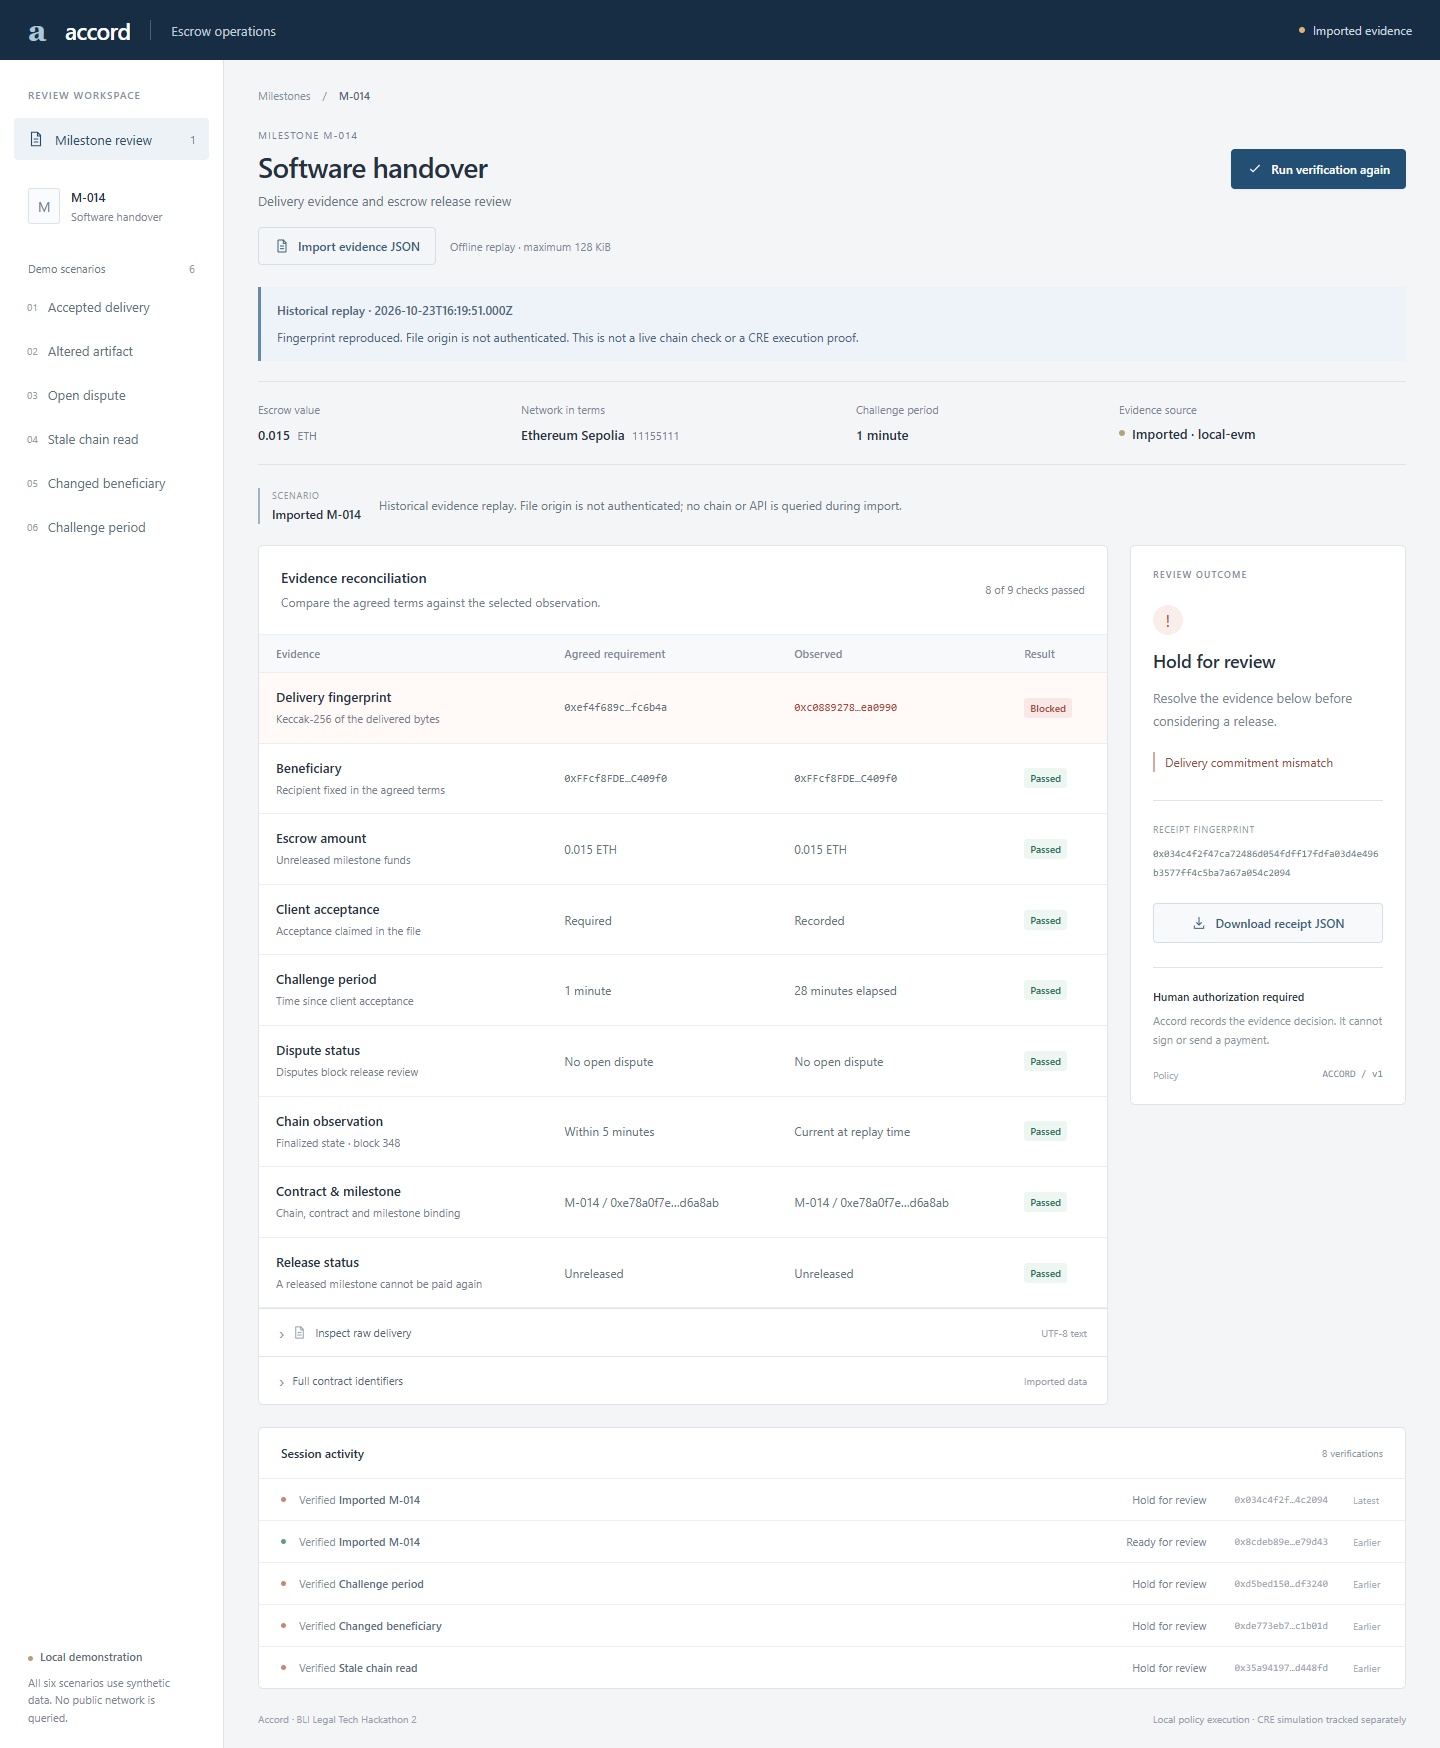
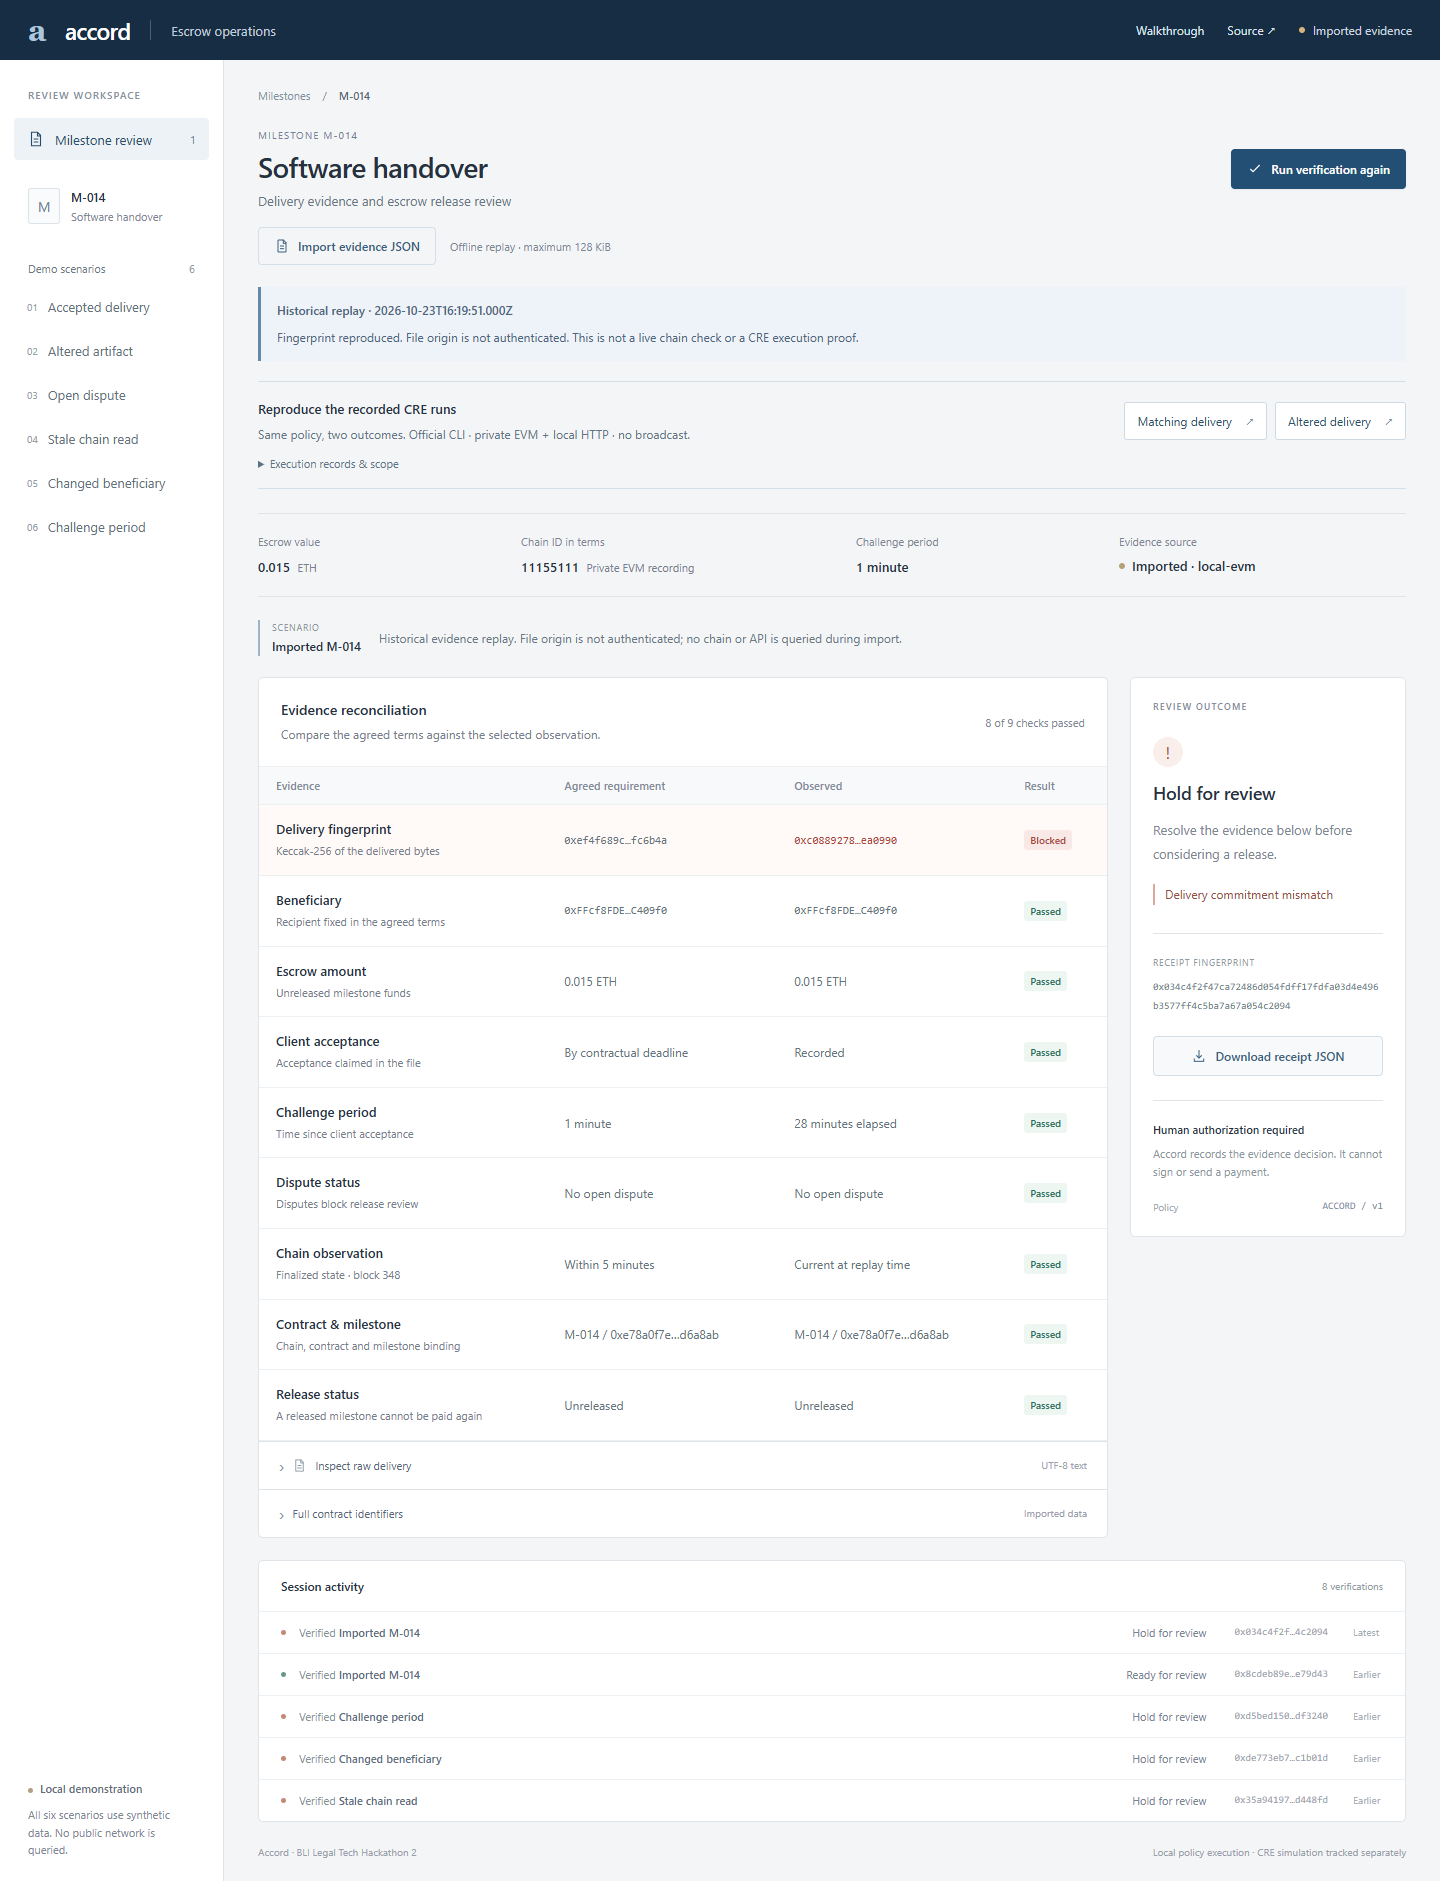
docs: record verified public quality pass and provenance [skip ci]

diff --git a/submission/PROVENANCE.md b/submission/PROVENANCE.md
@@ -1,9 +1,9 @@
 # Provenance
 
-First implementation: 2026-10-18, Asia/Kuala_Lumpur. Built specifically for the BLI Legal Tech Hackathon 2 Chainlink CRE bounty in an isolated project directory. AI-assisted design, implementation, documentation and testing by Codex; human review pending.
+First implementation: 2026-10-18, Asia/Kuala_Lumpur. Built specifically for the BLI Legal Tech Hackathon 2 Chainlink CRE bounty in an isolated project directory. AI-assisted design, implementation, documentation and testing by Codex. The owner approved public release, MIT licensing and hosting, supplied platform contacts and confirmed Build creation terms. These approvals do not establish a line-by-line human code or security review.
 
 Original project code: evidence policy, UI, Solidity escrow, workflow composition and tests. Dependencies include official Chainlink CRE SDK, viem, Vite, TypeScript, Ganache, solc and Playwright under their respective upstream licenses. CRE SDK usage follows official Chainlink TypeScript documentation, captured in `evidence/cre-*.md`. This documentation capture is for review provenance; upstream rights remain with their owners.
 
-No existing project checkout was copied into this project. No claim of pre-event eligibility is made: the event's precise development-window, AI and prior-code rules remain unconfirmed. Public release license must be approved before publishing.
+No existing project checkout was copied into the application. The video reuses the PageCam component from the installed video-shotcraft skill; its source and origin are recorded in video/README.md. Product captures are genuine browser screenshots; narration uses local Windows System.Speech and no generated imagery. No claim of pre-event eligibility is made: the event's precise development-window, AI and prior-code rules remain unconfirmed. Original project code was released under the owner-approved MIT license; upstream dependencies retain their respective licenses, including the official CRE SDK's BUSL-1.1 license.
 
 The machine exhausted C: disk space while installing dependencies. Only this project's partial dependency/download directories were moved to a project-specific D: runtime location. The source remains in its dedicated C: project directory. No global PATH or package-manager configuration was changed.

diff --git a/submission/PUBLICATION.md b/submission/PUBLICATION.md
@@ -24,3 +24,7 @@ This publishes the static operations desk, source and curated execution evidence
 The earlier unrecorded-video note is superseded. The 2m44s English walkthrough is published at https://kaivenn52.github.io/accord-escrow-evidence/walkthrough.html with the direct reviewed MP4, poster and English WebVTT captions. Source commit `36b631f` was deployed successfully by [run 40536080091](https://github.com/KaiVenn52/accord-escrow-evidence/actions/runs/40536080091). `evidence/video-qa.json` confirms live HTTP 200, matching reviewed media hash, playback, seeking, nine caption cues and phone layout without overflow or console errors. The live video bytes match the independent review in video/REVIEW.md. No new CRE execution or chain deployment follows from publishing this video.
 
 On Oct 28 the owner authorized contact disclosure and separately confirmed the Build creation terms. Public [Build 50435](https://dorahacks.io/build/50435) was successfully created and its full description and three links verified. The BLI event submission dialog has Accord selected and Looking for teammates set to No. The activity agreement remains unchecked and Submit for Review remains unclicked; see FINAL_REVIEW.md. These current facts supersede the earlier no-terms/no-Build notes.
+
+## Oct 28 review refinement
+
+Source commit 24f5f65 passed a fresh locked Linux install, all 31 source tests, evidence-copy integrity checks, production build and Pages deployment in [run 40639223992](https://github.com/KaiVenn52/accord-escrow-evidence/actions/runs/40639223992). The desk now has direct recorded-result replay, links to original CLI records, explicit private-chain labels and outcome-first narrow layouts. English captions now use 40 short cues; the reviewed MP4 hash is unchanged. The current public browser/video reports supersede older nine-cue and interface snapshots above.

diff --git a/video/README.md b/video/README.md
@@ -29,6 +29,7 @@ The renderer uses installed Microsoft Edge at `C:/Program Files (x86)/Microsoft/
 `src/workbench.ts` describes shots, editable titles/captions and narration on the same timeline. `npm run studio` opens the Remotion composition for local source editing. Generated bundles, intermediate MP4s and runtime caches are ignored. The reused PageCam source comes from the installed video-shotcraft skill's reusable component library; it is used in flat 2D mode. No Gallery variant or generated image is used.
 
 The prepared workspace also runs a project-scoped copy of ShotCraft Workbench at `http://localhost:5198/?import=project`; the installed skill itself was not modified. Windows path and junction handling were adapted in that scoped runtime. The nine shots and voice tracks import successfully. `parity.mjs` compared original and imported compositions at frames 90, 2150 and 4614: all had zero differing pixels. See `../evidence/video-workbench-parity.json`. This is sampled visual parity, not an exhaustive all-frame or audio comparison. The workbench's complete export action has not been run; use the reviewed published MP4 as the final submission artifact.
-# Caption readability update — Oct 28
+
+## Caption readability update — Oct 28
 
 The published WebVTT now has 40 short cues, at most two lines and 42 characters per line. `node video/captions.mjs` regenerates it from the fixed timeline without changing the reviewed MP4. All narration words are retained and cues do not overlap. Timing is interpolated by word count within each measured narration clip, starting at local frame 10; it is not forced word alignment. The original nine-paragraph caption QA is superseded by the current player report.

diff --git a/submission/FINAL_REVIEW.md b/submission/FINAL_REVIEW.md
@@ -16,7 +16,7 @@ The complete entry is saved as public Build 50435. Local backup: FORM_DRAFT.json
 
 The BLI event Build Submission dialog has Accord selected and Looking for teammates set to No. The event agreement checkbox remains unchecked and Submit for Review has not been clicked. No separate track or bounty selection is displayed in this dialog. The target remains the CRE bounty, but no bounty-specific application or organizer acceptance is claimed. Local evidence: evidence/dorahacks-build-created-20261028.png and evidence/dorahacks-ready-before-submit-20261028.png.
 
-The public video player is now deployed and tested: HTTP 200, reviewed SHA-256 matched against the full public file, playback and seek succeeded, nine English caption cues loaded, and desktop/phone checks passed with no console errors. The exact browser report is evidence/video-qa.json. A current unsaved-form screenshot is preserved locally at evidence/dorahacks-prepared-20261027.png for owner review.
+The public video player is deployed and tested: HTTP 200, reviewed SHA-256 matched against the full public file, playback and seek succeeded, 40 short English caption cues loaded, and desktop/phone checks passed with no console errors. The exact browser report is evidence/video-qa.json. The current pre-submission screenshot is evidence/dorahacks-ready-before-submit-20261028.png; the earlier Oct 27 unsaved-editor screenshot is historical.
 
 ## Video evidence
 

diff --git a/submission/DESIGN.md b/submission/DESIGN.md
@@ -9,6 +9,7 @@ Scenario selection resets the current result and disables export. Session activi
 Use case labels, actual amounts and explicit states. Avoid aspirational slogans, oversized metrics, decorative arrows, invented workflow navigation, repeated feature cards, gradients, stock art and fake activity. No generated images, external fonts or remote UI dependencies are used.
 
 Evidence: `evidence/ui-before-v1.png` retains the previous screen; `ui-idle.png`, `ui-desktop.png`, `ui-hold.png`, `ui-tablet.png` and `ui-mobile.png` show revision 2.1 after browser verification. The QA report records tested behaviors and viewports. Source revision date: 2026-10-23, Asia/Kuala_Lumpur. No backend policy or contract changes were made in this UI revision.
-# Oct 28 review refinement
+
+## Oct 28 review refinement
 
 Recorded CRE outcomes are available directly in the desk, with adjacent original execution records and an explicit unsigned replay explanation. This reduces the reviewer's setup burden without claiming a live network. The header links to the existing walkthrough and source. On narrow layouts the outcome appears before the long evidence comparison. Chain ID 11155111 is labeled as a private recording or synthetic fixture. The underlying deterministic policy and contract are unchanged.

diff --git a/submission/RULES.md b/submission/RULES.md
@@ -1,4 +1,6 @@
-# Official rules audit — refreshed 2026-10-24 (Asia/Kuala_Lumpur)
+# Official rules audit — refreshed 2026-10-28 (Asia/Kuala_Lumpur)
+
+Oct 28 refresh: the current official bounty still lists two $1,000 winners and requires CRE orchestration, a blockchain plus an external source, and successful CLI simulation or live deployment. The event detail continues to say prize amounts are discretionary. The public event poster says youth-focused events are included, without defining a universal age limit. Public Build 50435 is now created after explicit Build terms confirmation; the event submission agreement remains unchecked. These facts supersede earlier no-terms/no-form observations below. No eligibility or winner designation is inferred from creation.
 
 ## Sources
 
